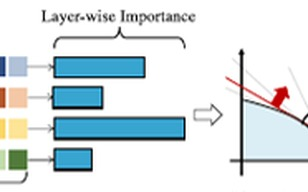
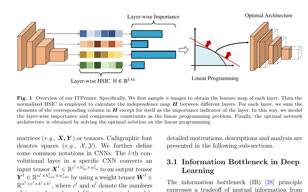
Refine journal selection and paper thumbnails

diff --git a/index.html b/index.html
@@ -196,8 +196,8 @@
     </section>
 
     <section>
-      <h2>Selected Journal Publications</h2>
-      <p class="section-note">Representative journal papers in IEEE TPAMI and IJCV.</p>
+      <h2>Selected First-Author Journal Publications</h2>
+      <p class="section-note">Selected first-author journal papers in IEEE TPAMI and IJCV, ordered from recent to earlier work.</p>
 
       <article class="pub">
         <a class="pub-thumb" href="https://doi.org/10.1109/TPAMI.2025.3629288" aria-label="Good Performance Estimation paper">
@@ -224,48 +224,6 @@
             <span class="pub-venue">International Journal of Computer Vision, 2025</span>
           </p>
           <p class="pub-links"><a href="https://doi.org/10.1007/s11263-025-02437-z">Paper</a> <a href="https://github.com/MAC-AutoML/ITPruner">Code</a></p>
-        </div>
-      </article>
-
-      <article class="pub">
-        <a class="pub-thumb" href="https://doi.org/10.1007/s11263-024-02217-1" aria-label="Adaptive Fuzzy Positive Learning paper">
-          <img src="images/papers/real/adaptive-fpl.jpg" alt="adaptive fpl figure thumbnail" loading="lazy" />
-        </a>
-        <div class="pub-body">
-          <p>
-            <a href="https://doi.org/10.1007/s11263-024-02217-1">Adaptive Fuzzy Positive Learning for Annotation-Scarce Semantic Segmentation</a><br />
-            Pengchong Qiao, Yu Wang, Chang Liu, Lijing Shang, Bing Sun, Zhennan Wang, <strong>Xiawu Zheng</strong>, Rongrong Ji, and Jie Chen<br />
-            <span class="pub-venue">International Journal of Computer Vision, 2025</span>
-          </p>
-          <p class="pub-links"><a href="https://doi.org/10.1007/s11263-024-02217-1">Paper</a></p>
-        </div>
-      </article>
-
-      <article class="pub">
-        <a class="pub-thumb" href="https://doi.org/10.1109/TPAMI.2024.3378704" aria-label="Over-smoothing paper">
-          <img src="images/papers/real/oversmoothing-sr.jpg" alt="oversmoothing figure thumbnail" loading="lazy" />
-        </a>
-        <div class="pub-body">
-          <p>
-            <a href="https://doi.org/10.1109/TPAMI.2024.3378704">Uncovering the Over-Smoothing Challenge in Image Super-Resolution: Entropy-Based Quantification and Contrastive Optimization</a><br />
-            Tianshuo Xu, Lijiang Li, Peng Mi, <strong>Xiawu Zheng</strong>, Fei Chao, Rongrong Ji, Yonghong Tian, and Qiang Shen<br />
-            <span class="pub-venue">IEEE Transactions on Pattern Analysis and Machine Intelligence, 2024</span>
-          </p>
-          <p class="pub-links"><a href="https://doi.org/10.1109/TPAMI.2024.3378704">Paper</a></p>
-        </div>
-      </article>
-
-      <article class="pub">
-        <a class="pub-thumb" href="https://doi.org/10.1109/TPAMI.2024.3378781" aria-label="Training-free Transformer Architecture Search paper">
-          <img src="images/papers/real/transformer-nas.jpg" alt="transformer nas figure thumbnail" loading="lazy" />
-        </a>
-        <div class="pub-body">
-          <p>
-            <a href="https://doi.org/10.1109/TPAMI.2024.3378781">Training-Free Transformer Architecture Search with Zero-Cost Proxy Guided Evolution</a><br />
-            Qi Zhou, Kai Sheng, <strong>Xiawu Zheng</strong>, Ke Li, Yonghong Tian, Jie Chen, and Rongrong Ji<br />
-            <span class="pub-venue">IEEE Transactions on Pattern Analysis and Machine Intelligence, 2024</span>
-          </p>
-          <p class="pub-links"><a href="https://doi.org/10.1109/TPAMI.2024.3378781">Paper</a></p>
         </div>
       </article>
 
@@ -311,19 +269,6 @@
         </div>
       </article>
 
-      <article class="pub">
-        <a class="pub-thumb" href="https://doi.org/10.1007/s11263-020-01379-y" aria-label="Binarized Neural Architecture Search paper">
-          <img src="images/papers/real/binarized-nas.jpg" alt="binarized nas figure thumbnail" loading="lazy" />
-        </a>
-        <div class="pub-body">
-          <p>
-            <a href="https://doi.org/10.1007/s11263-020-01379-y">Binarized Neural Architecture Search for Efficient Object Recognition</a><br />
-            Hanlin Chen, Li'an Zhuo, Baochang Zhang, <strong>Xiawu Zheng</strong>, Jianzhuang Liu, Rongrong Ji, David Doermann, and Guodong Guo<br />
-            <span class="pub-venue">International Journal of Computer Vision, 2021</span>
-          </p>
-          <p class="pub-links"><a href="https://doi.org/10.1007/s11263-020-01379-y">Paper</a></p>
-        </div>
-      </article>
     </section>
 
     <section>

diff --git a/WORKING_STATE.md b/WORKING_STATE.md
@@ -16,8 +16,11 @@
 - Do not use `SocialOmni` for the recent omni-style corresponding-author entry.
 - Prefer real framework/demo figures from the paper itself.
 - Keep corresponding-author marking evidence-backed only.
+- In selected journal papers, prioritize first-author papers and drop non-first-author entries.
+- Journal thumbnails should show complete framework/demo regions rather than partial crops.
 
 ## Current Revision Goal
 
 - Replace the conflicted `SocialOmni` recent-work entry with the evidence-backed training-free orchestration paper.
 - Keep recent highlighted works aligned with mailbox and paper-front-page evidence.
+- Rebuild the journal-section thumbnails for `Good Performance Estimation`, `ITPruner`, and `A2RBench`.